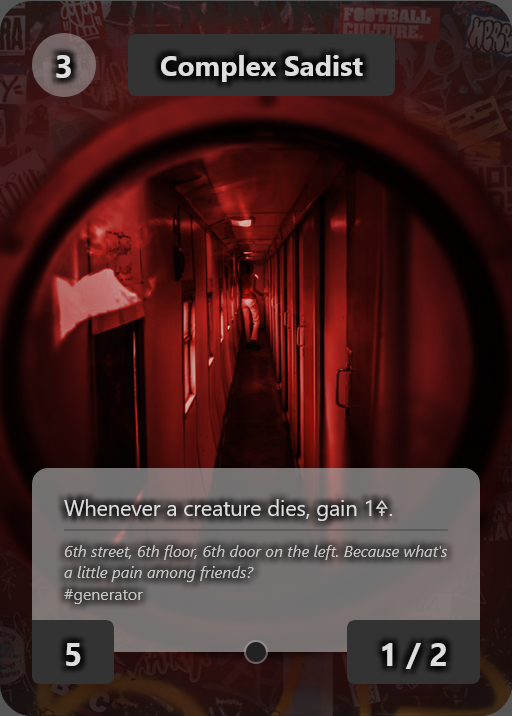
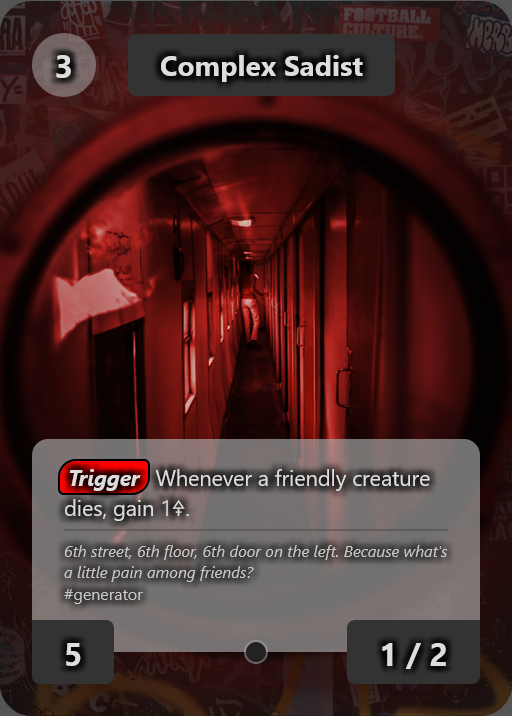
insta patch sadist lmao

Changed region(s): [[0.0625, 0.6145, 0.9375, 0.7374]]

diff --git a/src/cards/black.tsx b/src/cards/black.tsx
@@ -266,7 +266,8 @@ export const complexSadist: CreatureCard = {
   image: "complex-sadist",
   nodes: [
     <BodyText>
-      Whenever a creature dies, gain 1{SYMBOL_ENERGY}.
+      <Trigger />
+      Whenever a friendly creature dies, gain 1{SYMBOL_ENERGY}.
     </BodyText>,
     <Flavor>
       6th street, 6th floor, 6th door on the left.
